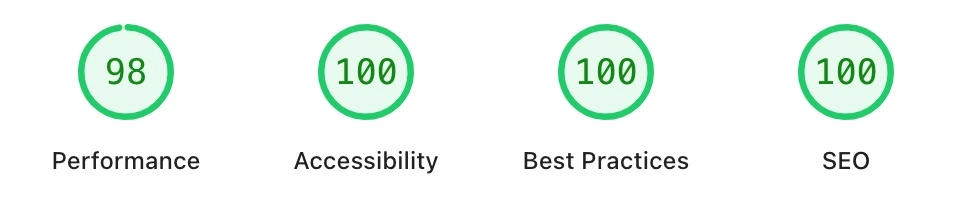
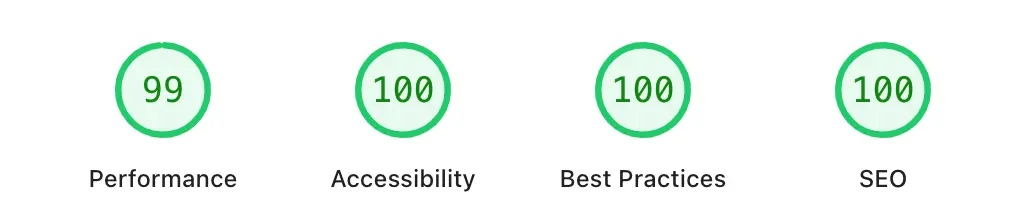
update readme

diff --git a/README.md b/README.md
@@ -1047,7 +1047,7 @@ This table summarises the improvements made to the website using image optimisat
 | | Speed Index (SI) | — | — | **3.3 s** | Improved perceived load speed |
 | **Both** | Accessibility | 100 | 100 | **100** | Maintained full compliance |
 | **Both** | Best Practices | 100 | 100 | **100** | No issues identified |
-| **Both** | SEO | Desktop: 88<br>Mobile: 66 | Desktop: 96<br>Mobile: 74 | **Desktop: 98<br>Mobile: 77** | Improvements align with performance and metadata enhancements |
+| **Both** | SEO | Desktop: 88<br>Mobile: 66 | Desktop: 96<br>Mobile: 74 | **Desktop: 99<br>Mobile: 77** | Improvements align with performance and metadata enhancements |
 
 <details> <summary><strong> </strong> Lighthouse Scores - Desktop (Updated) (Click to expand)</summary>
 
